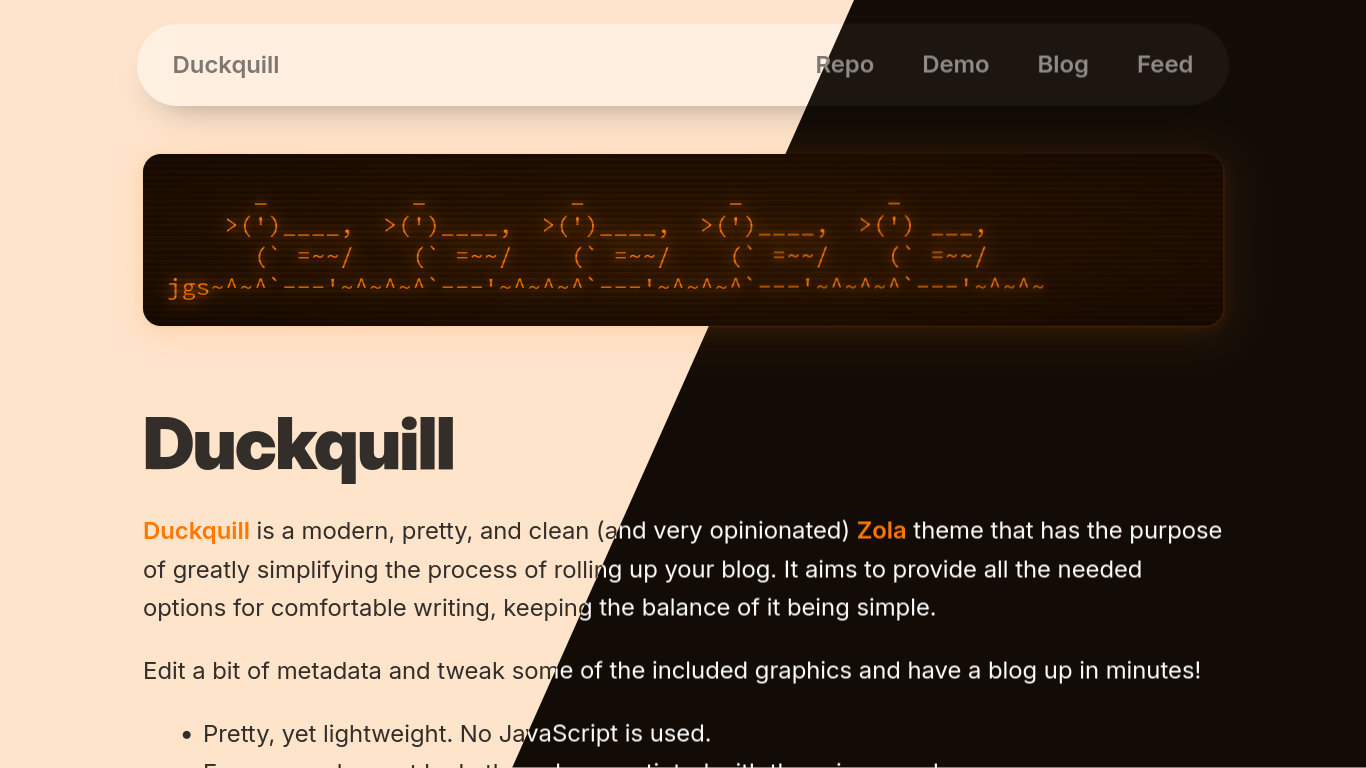
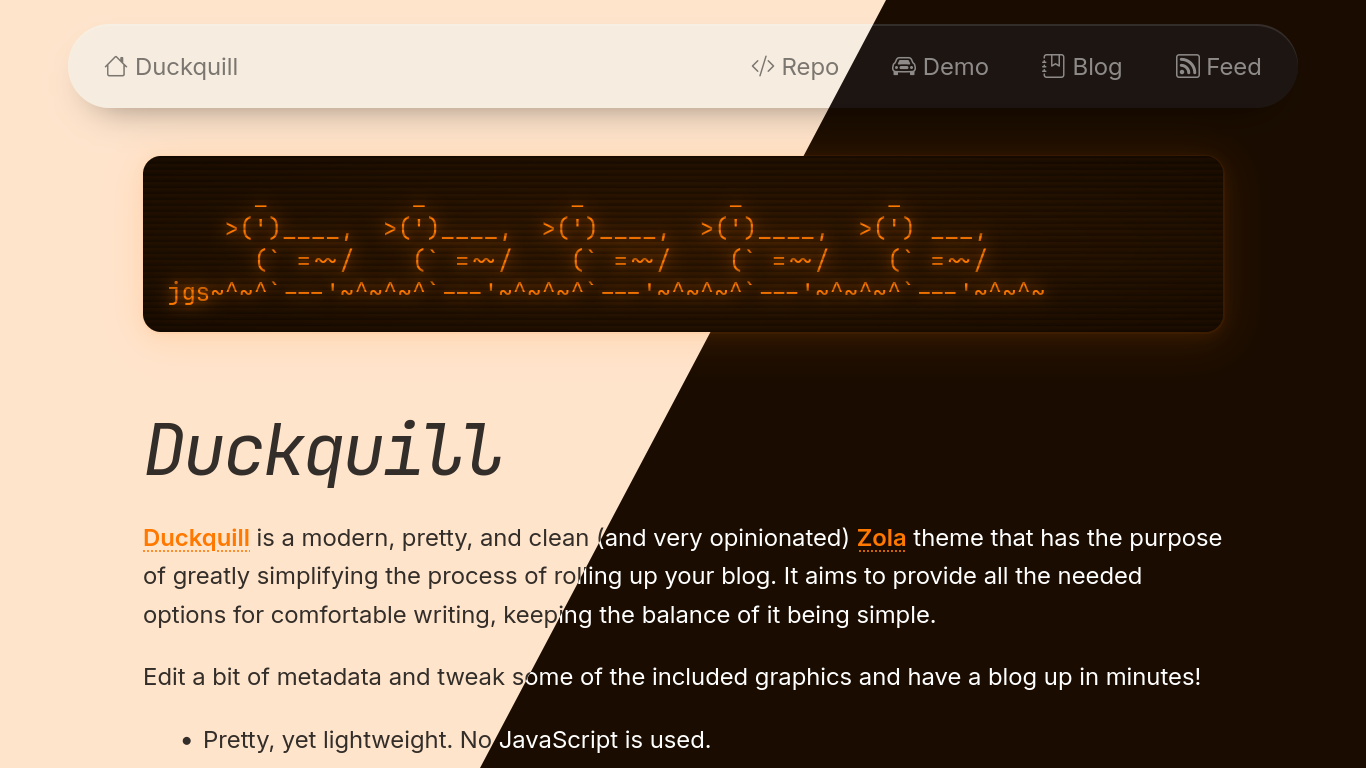
feat: Use primary color specified in config Sorry, not sorry iPhone users, get a phone on which you are able to use something different than Safari, or get a newer one :)

diff --git a/sass/_variables.scss b/sass/_variables.scss
@@ -1,24 +1,6 @@
-@use "sass:color";
-
-$primary-color: #ff7800;
-$primary-color-alpha: color.scale($primary-color, $alpha: -80%);
-
-$bg-color-l: color.scale($primary-color, $lightness: 80%);
-$bg-color-d: color.scale($primary-color, $lightness: -90%, $saturation: -50%);
-
-$crt-bg: radial-gradient(
-  color.scale($primary-color, $lightness: -80%),
-  color.scale($primary-color, $lightness: -90%)
-);
-
-$glow: 0 0 0 1px color.scale($primary-color, $alpha: -95%),
-  0 2px 6px 2px color.scale($primary-color, $alpha: -95%),
-  0 4px 24px 4px color.scale($primary-color, $alpha: -90%);
-
 :root {
   // COLORS
-  --bg-color: #{$bg-color-l};
-  --crt-bg: #{$crt-bg};
+  --bg-color: var(--bg-color-l);
   --fg-color: rgba(0, 0, 0, 0.8);
   --fg-muted-1: rgba(0, 0, 0, 0.05);
   --fg-muted-2: rgba(0, 0, 0, 0.1);
@@ -28,8 +10,6 @@ $glow: 0 0 0 1px color.scale($primary-color, $alpha: -95%),
   --nav-bg: rgba(242, 242, 242, 0.7);
   --orange-bg: rgba(255, 120, 0, 0.1);
   --orange-fg: rgb(255, 120, 0);
-  --primary-color-alpha: #{$primary-color-alpha};
-  --primary-color: #{$primary-color};
   --purple-bg: rgba(145, 65, 172, 0.1);
   --purple-fg: rgb(145, 65, 172);
   --red-bg: rgba(224, 27, 36, 0.1);
@@ -39,10 +19,11 @@ $glow: 0 0 0 1px color.scale($primary-color, $alpha: -95%),
 
   // VARIABLES
   --active: 0.9;
+  --bg-color-l: color-mix(in srgb, var(--primary-color) 20%, white);
+  --bg-color-d: color-mix(in srgb, var(--primary-color) 10%, black);
   --content-width: 720px;
   --drop-shadow: drop-shadow(0 4px 3px rgba(0, 0, 0, 0.07))
     drop-shadow(0 2px 2px rgba(0, 0, 0, 0.06));
-  --glow: #{$glow};
   --rounded-corner-small: 8px;
   --rounded-corner: 12px;
   --shadow-raised: 0 0 0 1px rgba(0, 0, 0, 0.06),
@@ -60,7 +41,7 @@ $glow: 0 0 0 1px color.scale($primary-color, $alpha: -95%),
     color-scheme: dark;
 
     // COLORS
-    --bg-color: #{$bg-color-d};
+    --bg-color: var(--bg-color-d);
     --fg-color: rgb(255, 255, 255);
     --fg-muted-1: rgba(255, 255, 255, 0.05);
     --fg-muted-2: rgba(255, 255, 255, 0.1);

diff --git a/sass/_crt.scss b/sass/_crt.scss
@@ -1,8 +1,13 @@
 .crt {
   margin: 1rem 0 1rem;
   border-radius: var(--rounded-corner);
-  box-shadow: var(--glow);
-  background: var(--crt-bg);
+  box-shadow: 0 0 0 1px color-mix(in srgb, var(--primary-color) 5%, transparent),
+    0 2px 6px 2px color-mix(in srgb, var(--primary-color) 5%, transparent),
+    0 4px 24px 4px color-mix(in srgb, var(--primary-color) 10%, transparent);
+  background-image: radial-gradient(
+    color-mix(in srgb, var(--primary-color) 20%, black),
+    color-mix(in srgb, var(--primary-color) 10%, black)
+  );
 
   pre {
     color: var(--primary-color);
@@ -47,6 +52,10 @@
       transform: translateY(0px);
     }
   }
+
+  @media (prefers-reduced-motion) {
+    animation: none;
+  }
 }
 
 .cursor {
@@ -62,5 +71,9 @@
     75% {
       opacity: 1;
     }
+  }
+
+  @media (prefers-reduced-motion) {
+    animation: none;
   }
 }

diff --git a/templates/includes/head.html b/templates/includes/head.html
@@ -18,6 +18,13 @@
     {% endfor %}
   {% endif %}
 
+  <style>
+    :root {
+      --primary-color-alpha: {{ config.extra.primary_color_alpha }};
+      --primary-color: {{ config.extra.primary_color }};
+    }
+  </style>
+
   {% if config.extra.animated_favicon %}
     <link rel="icon" type="image/gif" href="{{ get_url(path='favicon.gif') }}" />
   {% else %}

diff --git a/content/_index.md b/content/_index.md
@@ -78,70 +78,13 @@ If for some reason overridden class are not respected, try using `!important`. Y
 
 ### Primary color
 
-Duckquill respects chosen primary color everywhere, you can use any HEX color code you want
-
-First, change the primary color in `config.toml`:
+Duckquill respects chosen primary color everywhere, simply change the primary color in `config.toml`:
 
 ```toml
 [extra]
 primary_color = "COLOR_CODE"
+primary_color_alpha = "COLOR_CODE"
 ```
-
-Then, add `custom.css` to additional stylesheets.
-
-```toml
-[extra]
-stylesheets = [
-  "custom.css"
-]
-```
-
-Then, paste the following code inside `sass/custom.scss` (inside your site, not the theme):
-
-```scss
-@use "sass:color";
-
-$primary-color: COLOR_CODE;
-$primary-color-alpha: color.scale($primary-color, $alpha: -80%);
-
-$bg-color-l: color.scale($primary-color, $lightness: 80%);
-$bg-color-d: color.scale($primary-color, $lightness: -90%, $saturation: -50%);
-
-$crt-bg: radial-gradient(
-  color.scale($primary-color, $lightness: -80%),
-  color.scale($primary-color, $lightness: -90%)
-);
-
-$nav-bg-l: color.scale($bg-color-l, $alpha: -20%, $lightness: 50%);
-$nav-bg-d: color.scale(
-  $bg-color-d,
-  $alpha: -20%,
-  $lightness: 5%,
-  $saturation: -50%
-);
-
-$glow: 0 0 0 1px color.scale($primary-color, $alpha: -95%),
-  0 2px 6px 2px color.scale($primary-color, $alpha: -95%),
-  0 4px 24px 4px color.scale($primary-color, $alpha: -90%);
-
-:root {
-  --bg-color: #{$bg-color-l};
-  --crt-bg: #{$crt-bg};
-  --glow: #{$glow};
-  --nav-bg: #{$nav-bg-l};
-  --primary-color-alpha: #{$primary-color-alpha};
-  --primary-color: #{$primary-color};
-}
-
-@media (prefers-color-scheme: dark) {
-  :root {
-    --bg-color: #{$bg-color-d};
-    --nav-bg: #{$nav-bg-d};
-  }
-}
-```
-
-Set any color in `$primary-color` and reload, the primary color should be used now. This is a hack that is needed until Zola will be able to use `config.toml` options inside Sass files.
 
 ## Test pages
 
